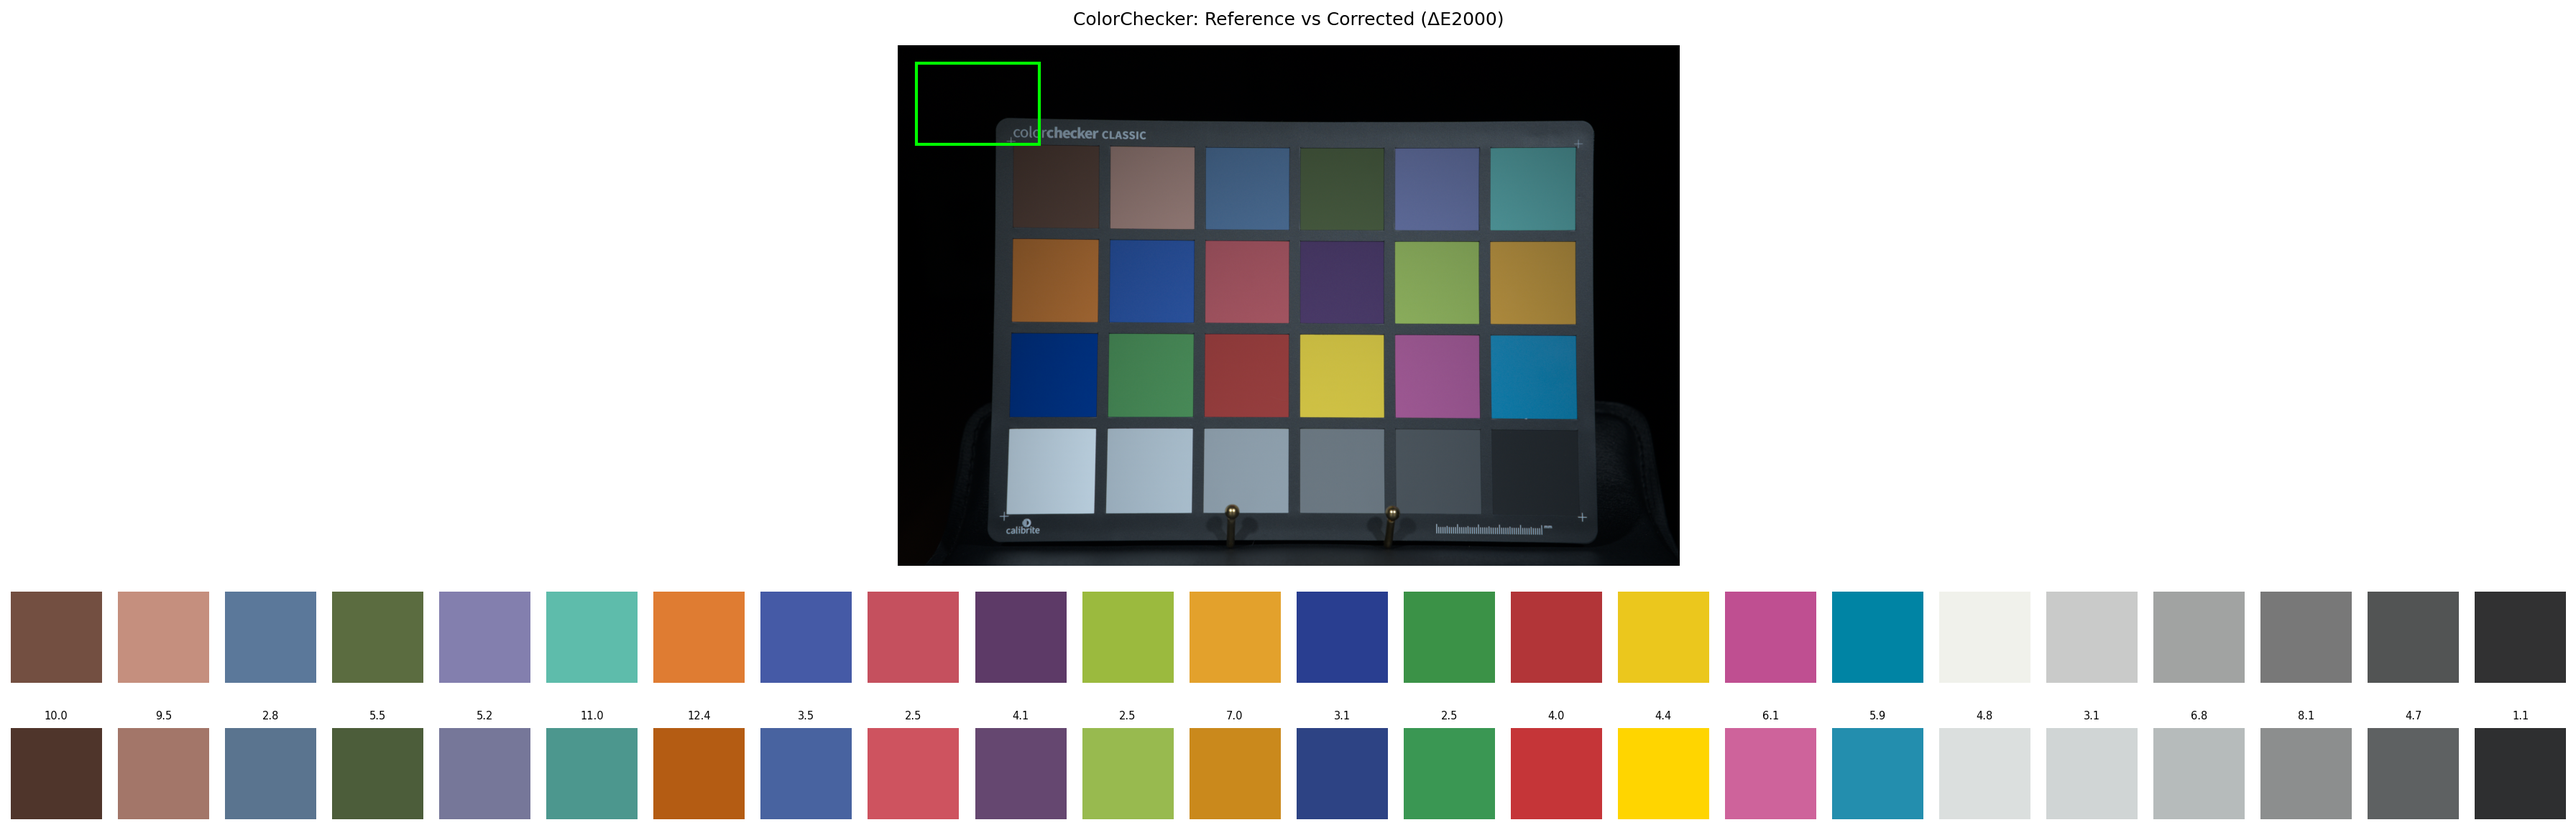
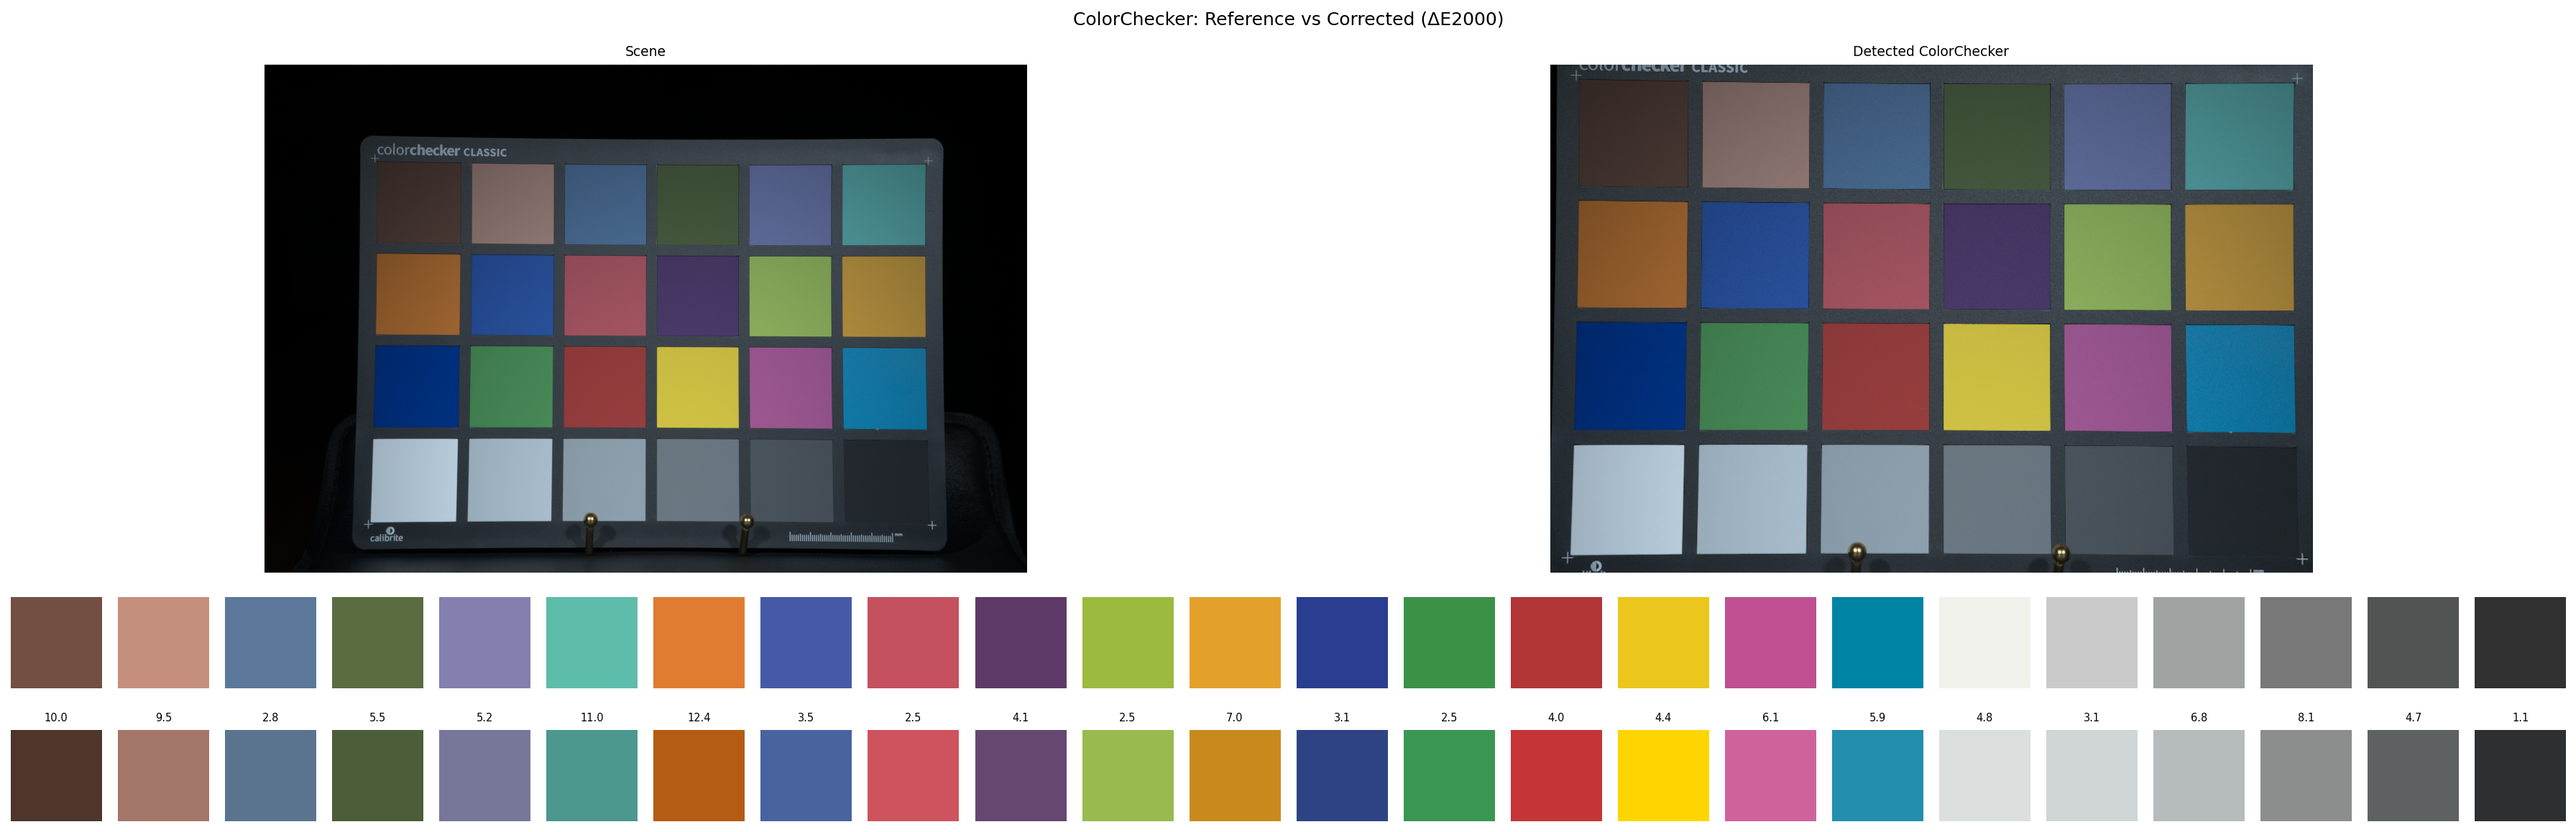
correct visualization to display photo, detected chart, and results

diff --git a/main.py b/main.py
@@ -40,10 +40,11 @@ def detect_patches(file_path):
     image = rgb.astype(np.float32) / 65535.0
 
     # detect the color checker
-    swatches = ccd.detect_colour_checkers_segmentation(image, additional_data=True)
+    swatches = ccd.detect_colour_checkers_segmentation(
+        image, additional_data=True)
     data = swatches[0]
 
-    return image, data.quadrilateral, data.swatch_colours
+    return image, data.colour_checker, data.swatch_colours
 
 
 def get_RGB_reference(colour_checker):
@@ -89,9 +90,8 @@ def analyze_colour_accuracy(file_path):
     """
     colour_checker = colour.CCS_COLOURCHECKERS['ColorChecker24 - After November 2014']
 
-    image, quadrilateral, RGB_measured = detect_patches(file_path)
+    image, checker_crop, RGB_measured = detect_patches(file_path)
     RGB_reference = get_RGB_reference(colour_checker)
-
 
     colour_correction_matrix = compute_colour_correction_matrix(
         RGB_measured, RGB_reference)
@@ -130,13 +130,13 @@ def analyze_colour_accuracy(file_path):
     print(f"{'mean':<8} {delta_e_uncorrected_values.mean():>12.4f} {delta_e_values.mean():>12.4f} {delta_e_uncorrected_values.mean() - delta_e_values.mean():>+12.4f}")
     print(f"{'max':<8} {delta_e_uncorrected_values.max():>12.4f} {delta_e_values.max():>12.4f}")
 
-    return image, quadrilateral, RGB_reference, RGB_corrected, delta_e_values
+    return image, checker_crop, RGB_reference, RGB_corrected, delta_e_values
 
 
-def visualize_swatches(image, quadrilateral, RGB_reference, RGB_corrected, delta_e):
+def visualize_swatches(image, checker_crop, RGB_reference, RGB_corrected, delta_e):
     """
 
-    Before we can visualize, we need to understand our RGB data is LINEAR. We will need to apply gamma encoding before display so the colors look correct visually. 
+    Before we can visualize, we need to understand our RGB data is LINEAR. We will need to apply gamma encoding before display so the colors look correct visually.
 
     """
     # add gamma to linear RGB values
@@ -146,15 +146,18 @@ def visualize_swatches(image, quadrilateral, RGB_reference, RGB_corrected, delta
     # create the figure
     fig = plt.figure(figsize=(24, 8))
     gs = fig.add_gridspec(3, 24, height_ratios=[4, 1, 1])
-    ax_photo = fig.add_subplot(gs[0, :])
-    axes = np.array([[fig.add_subplot(gs[r+1, c]) for c in range(24)] for r in range(2)])
-
+    ax_photo = fig.add_subplot(gs[0, :12])
+    ax_checker = fig.add_subplot(gs[0, 12:])
+    axes = np.array([[fig.add_subplot(gs[r+1, c])
+                    for c in range(24)] for r in range(2)])
 
     ax_photo.imshow(colour.cctf_encoding(np.clip(image, 0, 1)))
-    from matplotlib.patches import Polygon
-    ax_photo.add_patch(Polygon(quadrilateral, closed=True, edgecolor='lime', facecolor='none', linewidth=2))
     ax_photo.axis('off')
+    ax_photo.set_title('Scene', fontsize=9)
 
+    ax_checker.imshow(colour.cctf_encoding(np.clip(checker_crop, 0, 1)))
+    ax_checker.axis('off')
+    ax_checker.set_title('Detected ColorChecker', fontsize=9)
 
     # fill each column
     for i in range(24):
@@ -174,7 +177,6 @@ def visualize_swatches(image, quadrilateral, RGB_reference, RGB_corrected, delta
 
 
 if __name__ == '__main__':
-    
-    image, quadrilateral, RGB_reference, RGB_corrected, delta_e_values = analyze_colour_accuracy(
+    image, checker_crop, RGB_reference, RGB_corrected, delta_e_values = analyze_colour_accuracy(
         sony_img)
-    visualize_swatches(image, quadrilateral, RGB_reference, RGB_corrected, delta_e_values)
+    visualize_swatches(image, checker_crop, RGB_reference, RGB_corrected, delta_e_values)
